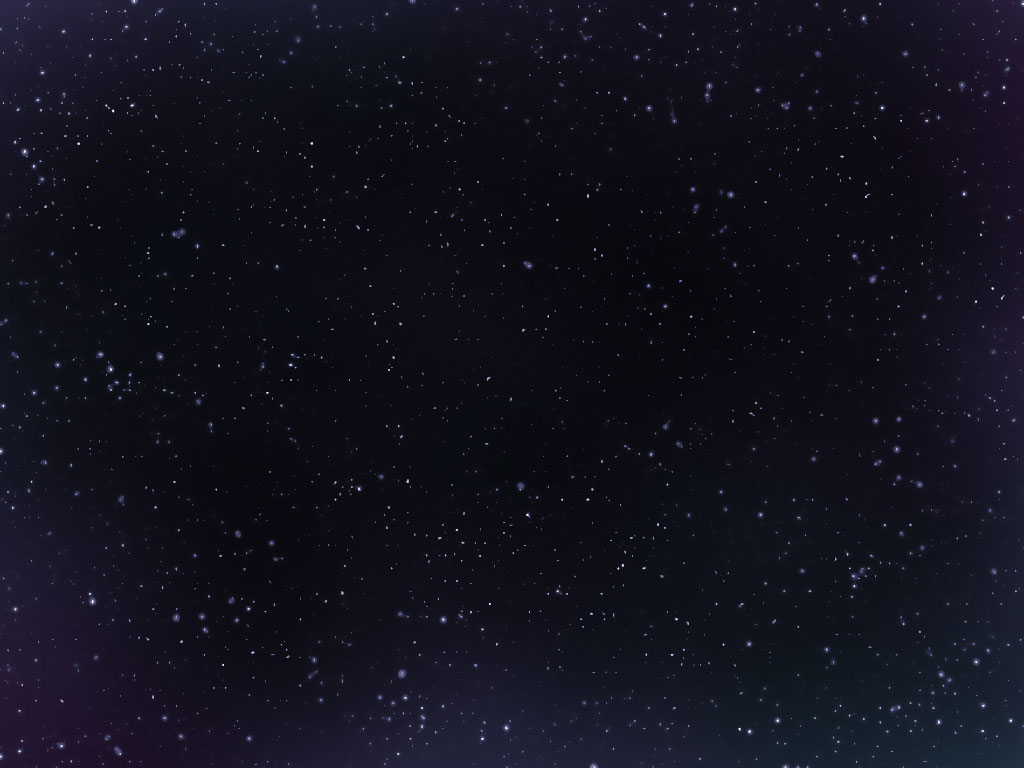
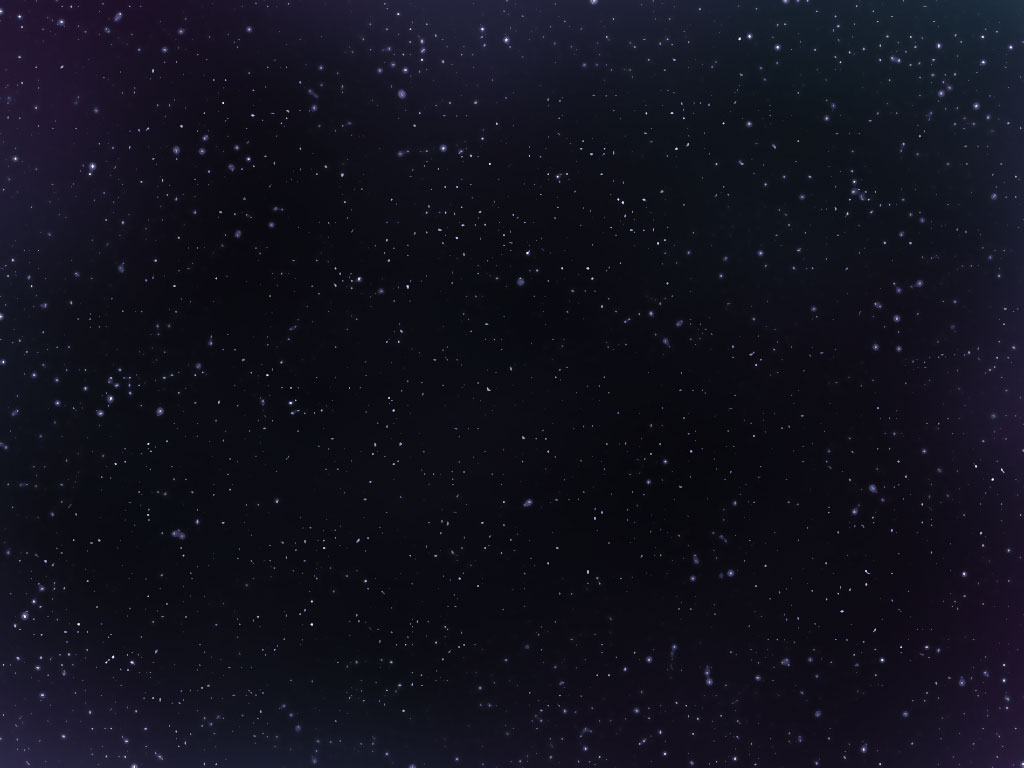
Background in progess

diff --git a/Assets/Scripts/Models/Player.cs b/Assets/Scripts/Models/Player.cs
@@ -14,25 +14,16 @@ public class Player : GameEntity {
 	private bool shooting;
 	private float shootFrequency = 0.2f;
 
-	float x;
-	float y;
-	float z;
-
 	// Use this for initialization
 	void Start () {
-		shooting = true;
-		StartCoroutine (Shoot ());
+	//	shooting = true;
+	//	StartCoroutine (Shoot ());
 	}
 
 	public void Revive() {
 		spriteRendered.sprite = normalSprite;
 		shooting = true;
 		StartCoroutine (Shoot ());
-	}
-	
-	// Update is called once per frame
-	void Update () {
-		Navigation ();
 	}
 
 	private IEnumerator Shoot() {
@@ -54,34 +45,6 @@ public class Player : GameEntity {
 		rocket.GetComponent<Rocket> ().SetAuthor (Rocket.RocketOwner.Player);
 		if(shooting)
 			StartCoroutine (Shoot ());
-	}
-
-	private void Navigation (){
-		x = outerSpaceContainer.transform.position.x;
-		y = outerSpaceContainer.transform.position.y;
-		z = outerSpaceContainer.transform.position.z;
-
-		Debug.Log ("x " + x + " -- y " + y + " -- W " + Screen.width/2 + " -- H " + Screen.height/2);
-		if (Input.GetKey (KeyCode.A)) {
-			x += 2f;
-			x = x > OuterSpaceControl.PLAYERMAXBOUNDS.x? OuterSpaceControl.PLAYERMAXBOUNDS.x: x;
-			outerSpaceContainer.transform.position = new Vector3 (x, y, z);
-		}
-		if (Input.GetKey (KeyCode.W)) {
-			y -= 2f;
-			y = y < OuterSpaceControl.PLAYERMINBOUNDS.y ? OuterSpaceControl.PLAYERMINBOUNDS.y: y;
-			outerSpaceContainer.transform.position = new Vector3 (x, y, z);
-		}
-		if (Input.GetKey (KeyCode.S)) {
-			y += 2f;
-			y = y > OuterSpaceControl.PLAYERMAXBOUNDS.y ? OuterSpaceControl.PLAYERMAXBOUNDS.y: y;
-			outerSpaceContainer.transform.position = new Vector3 (x, y, z);
-		}
-		if (Input.GetKey (KeyCode.D)) {
-			x -= 2f;
-			x = x < OuterSpaceControl.PLAYERMINBOUNDS.x ? OuterSpaceControl.PLAYERMINBOUNDS.x : x;
-			outerSpaceContainer.transform.position = new Vector3 (x, y, z);
-		}
 	}
 
 	public void Die () {

diff --git a/Assets/Scripts/UI/BackgroundManager.cs b/Assets/Scripts/UI/BackgroundManager.cs
@@ -3,15 +3,36 @@ using System.Collections.Generic;
 using UnityEngine;
 
 public class BackgroundManager : MonoBehaviour {
-	
-	SpriteRenderer spriteRenderer;
 
-	// Use this for initialization
-	void Start () {
+	public Vector2 scrollSpeed;
+	public Vector2 direction;
+	public Vector2 input;
+	public float tileSizeZ;
+
+	private Vector3 startPosition;
+	private float x;
+	private float y;
+
+	void Start ()
+	{
+		startPosition = transform.position;
 	}
-	
-	// Update is called once per frame
-	void Update () {
-		
+
+	void Update ()
+	{
+		x = Mathf.Repeat(Time.time * direction.x * scrollSpeed.x + input.x, tileSizeZ);
+		y = Mathf.Repeat(Time.time * direction.y * scrollSpeed.y + input.y, tileSizeZ);
+		transform.position = new Vector3 (x, y);
+		scrollSpeed.x -= (scrollSpeed.x > 0) ? 0.01f : 0f; // Decelerate
+		scrollSpeed.y -= (scrollSpeed.y > 0) ? 0.01f : 0f; // Decelerate
+	}
+
+	public void Input(Vector2 keyInput) {
+		input += keyInput * .1f;
+		direction.x = keyInput.x > 0 ? 1 : direction.x;
+		direction.x = keyInput.x < 0 ? -1 : direction.x;
+		direction.y = keyInput.y > 0 ? 1 : direction.y;
+		direction.y = keyInput.y < 0 ? -1 : direction.y;
+		scrollSpeed += new Vector2(Mathf.Abs(keyInput.x),Mathf.Abs(keyInput.y)) * 0.1f;
 	}
 }

diff --git a/Assets/Scripts/ViewControllers/InputControl.cs b/Assets/Scripts/ViewControllers/InputControl.cs
@@ -1,0 +1,32 @@
+using System.Collections;
+using System.Collections.Generic;
+using UnityEngine;
+
+public class InputControl : MonoBehaviour {
+
+	public BackgroundManager background;
+	public Transform aliens;
+	public Transform player;
+	public Transform camera;
+	private float offset = 0.2f;
+	
+	// Update is called once per frame
+	void Update () {
+		if (Input.GetKey (KeyCode.A)) {
+			aliens.position = new Vector3 (aliens.position.x + offset, aliens.position.y, aliens.position.z);
+			background.Input (new Vector2 (1f, 0f));
+		}
+		if (Input.GetKey (KeyCode.W)) {
+			aliens.transform.position = new Vector3 (aliens.position.x, aliens.position.y - offset, aliens.position.z);
+			background.Input (new Vector2 (0f, -1f));
+		}
+		if (Input.GetKey (KeyCode.S)) {
+			aliens.transform.position = new Vector3 (aliens.position.x, aliens.position.y + offset, aliens.position.z);
+			background.Input (new Vector2 (0f, 1f));
+		}
+		if (Input.GetKey (KeyCode.D)) {
+			aliens.transform.position = new Vector3 (aliens.position.x - offset, aliens.position.y, aliens.position.z);
+			background.Input (new Vector2 (-1f, 0f));
+		}
+	}
+}

diff --git a/Assets/Scripts/ViewControllers/OuterSpaceControl.cs b/Assets/Scripts/ViewControllers/OuterSpaceControl.cs
@@ -17,7 +17,7 @@ public class OuterSpaceControl : MonoBehaviour {
 
 	// Use this for initialization
 	void Start () {
-		StartCoroutine(SpawnAliens(spawnTime, alienCount));
+		//StartCoroutine(SpawnAliens(spawnTime, alienCount));
 	}
 
 	private IEnumerator SpawnAliens(float time, int count){
